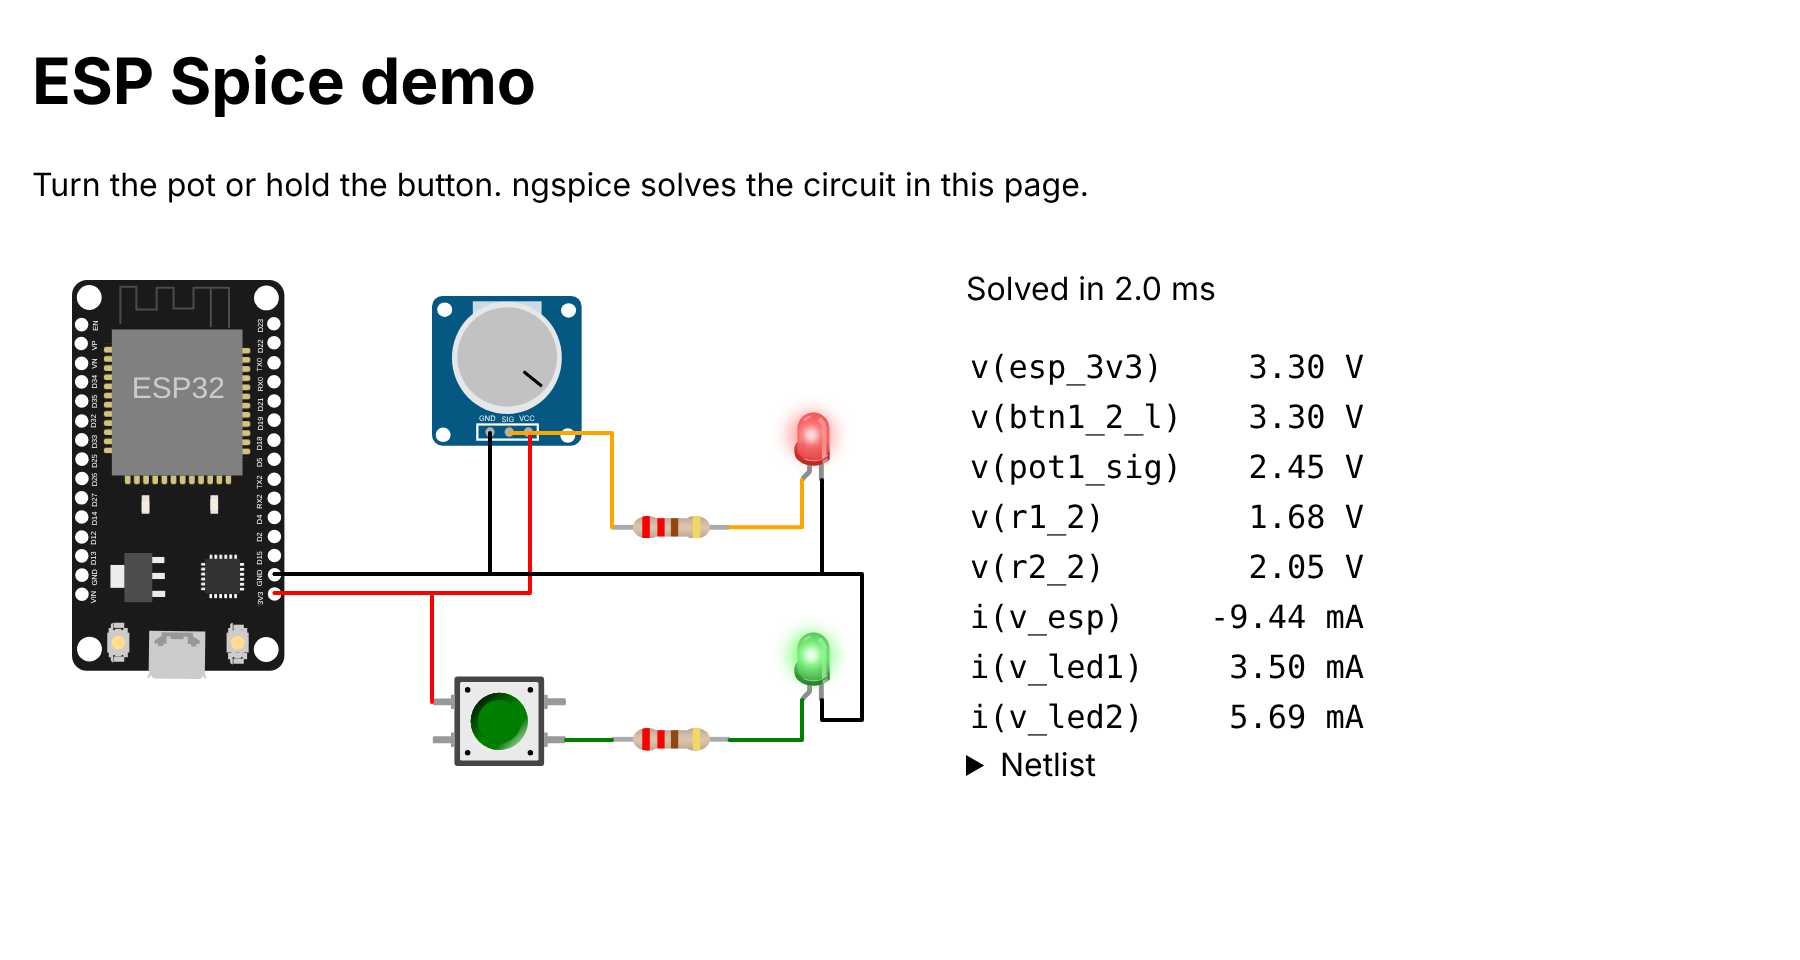
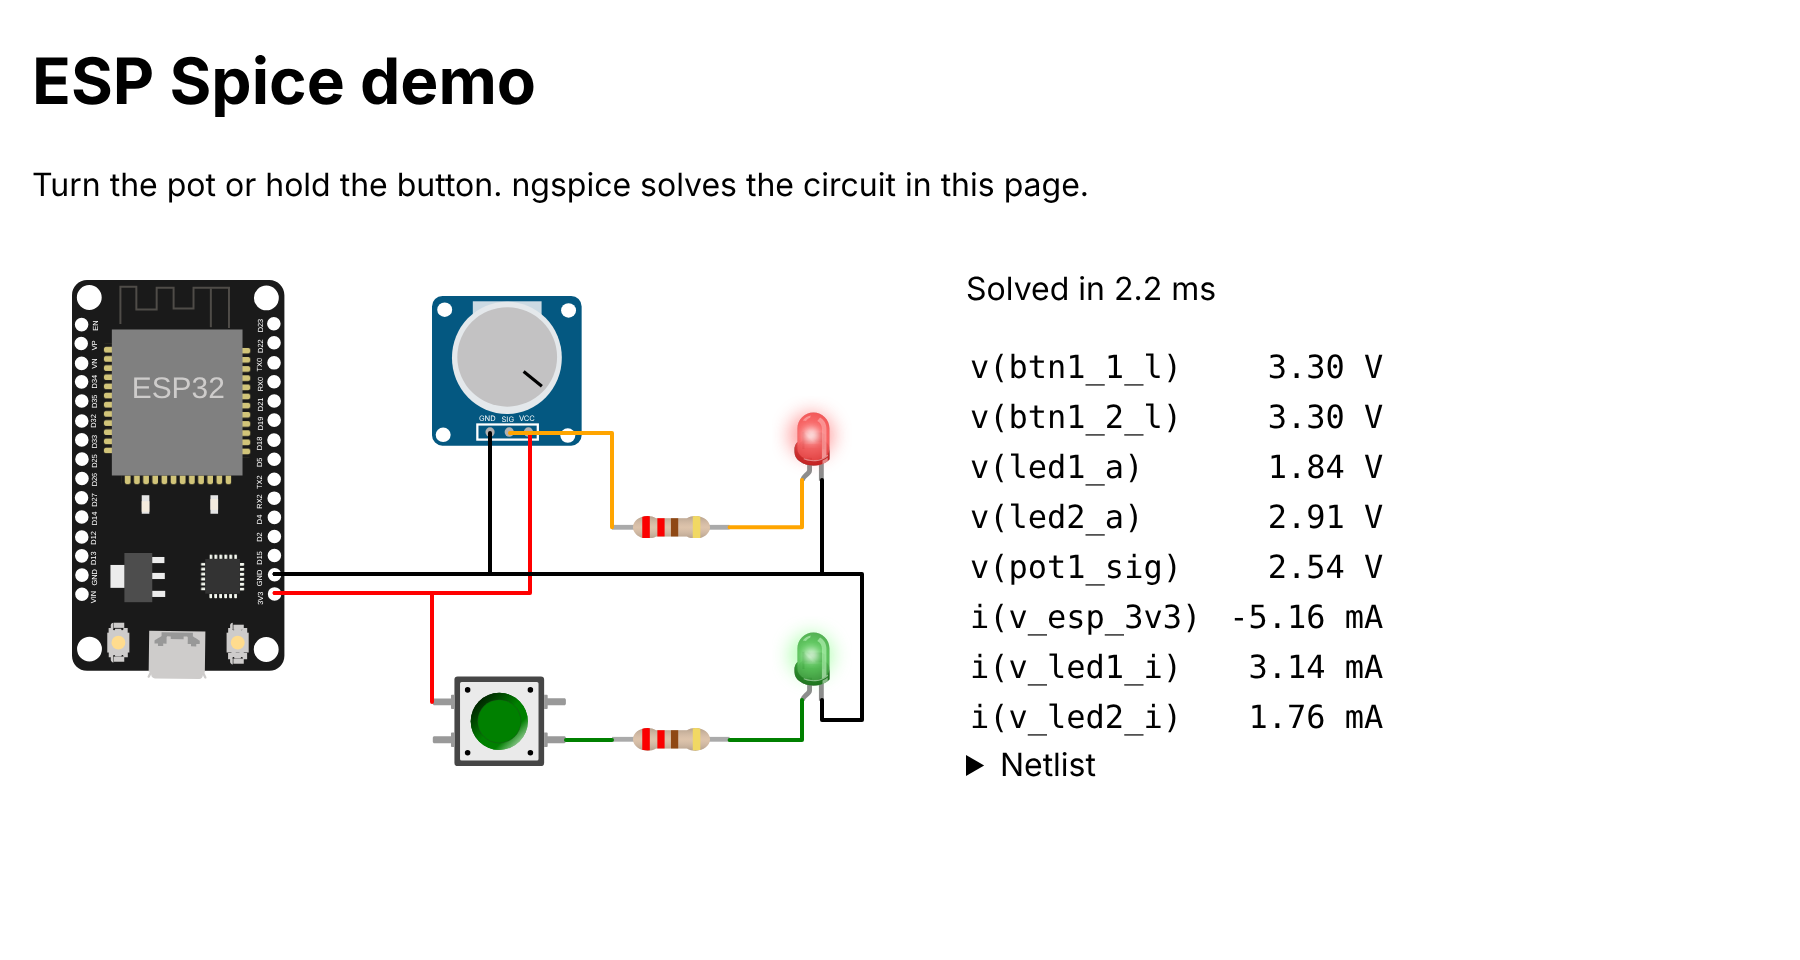
Use the shared netlist code in the web demo
Remove web/netlist.js. The page now makes the netlist with
circuit/netlist.js and sets the part props from its state().

Claude-Session: https://claude.ai/code/session_01Vyp3qCfvE3tLikKX5Badmj

diff --git a/web/demo.js b/web/demo.js
@@ -4,12 +4,9 @@
 
 import {Simulation} from 'eecircuit-engine';
 
+import {toNetlist} from '../circuit/netlist.js';
+import {PARTS} from '../circuit/parts.js';
 import {renderCircuit} from '../render/src/circuit.js';
-
-import {toNetlist} from './netlist.js';
-
-/** The LED current that shows as full brightness, in amperes. */
-const FULL_BRIGHTNESS_AMPS = 5e-3;
 
 const status = document.querySelector('#status');
 const readout = document.querySelector('#readout');
@@ -21,27 +18,21 @@ const diagram = await (await fetch('diagram.json')).json();
 const {elements: parts} =
     await renderCircuit(document.querySelector('#circuit'), diagram);
 
-const inputs = {};
+const controls = {};
 for (const [id, el] of parts) {
+  const set = (name, value) => {
+    controls[`${id}.${name}`] = value;
+    solve();
+  };
   switch (el.localName) {
     case 'wokwi-potentiometer':
       el.value = 512;
-      inputs[id] = el.value / el.max;
-      el.addEventListener('input', () => {
-        inputs[id] = el.value / el.max;
-        solve();
-      });
+      controls[`${id}.value`] = el.value;
+      el.addEventListener('input', () => set('value', el.value));
       break;
     case 'wokwi-pushbutton':
-      inputs[id] = false;
-      el.addEventListener('button-press', () => {
-        inputs[id] = true;
-        solve();
-      });
-      el.addEventListener('button-release', () => {
-        inputs[id] = false;
-        solve();
-      });
+      el.addEventListener('button-press', () => set('pressed', 1));
+      el.addEventListener('button-release', () => set('pressed', 0));
       break;
   }
 }
@@ -66,33 +57,35 @@ async function solve() {
   running = true;
   do {
     pending = false;
-    const netlist = toNetlist(diagram, inputs);
-    netlistView.textContent = netlist;
-    sim.setNetList(netlist);
+    const circuit = toNetlist(diagram, {analysis: '.op', controls});
+    netlistView.textContent = circuit.netlist;
+    sim.setNetList(circuit.netlist);
     const start = performance.now();
     const result = await sim.runSim();
     const ms = performance.now() - start;
-    show(result);
+    show(circuit, result);
     status.textContent = `Solved in ${ms.toFixed(1)} ms`;
   } while (pending);
   running = false;
 }
 
 /**
- * Updates the LEDs and the readout table from an .op result.
+ * Updates the parts and the readout table from an .op result.
  *
- * @param {!Object} result An eecircuit-engine result.
+ * @param {!Object} circuit The toNetlist() result.
+ * @param {!Object} result The eecircuit-engine result.
  */
-function show(result) {
+function show(circuit, result) {
   const values = new Map(result.data.map((d) => [d.name, d.values[0]]));
-  for (const [id, el] of parts) {
-    if (el.localName !== 'wokwi-led') continue;
-    const amps = values.get(`i(v_${id})`) ?? 0;
-    el.brightness = Math.min(1, Math.max(0, amps / FULL_BRIGHTNESS_AMPS));
-    el.value = el.brightness > 0.01;
+  const read = {
+    v: (node) => node === '0' ? 0 : values.get(`v(${node})`) ?? 0,
+    i: (source) => values.get(`i(${source})`) ?? 0,
+  };
+  for (const {id, type} of diagram.parts) {
+    if (PARTS[type]?.state) Object.assign(parts.get(id), circuit.state(id, read));
   }
-  // The `_k` nodes are the LED current probes from netlist.js. They are 0 V.
-  const shown = [...values].filter(([name]) => !name.endsWith('_k)'));
+  // Nodes with "__" are inside parts, so they do not help the reader.
+  const shown = [...values].filter(([name]) => !name.includes('__'));
   readout.replaceChildren(...shown.map(([name, value]) => {
     const row = document.createElement('tr');
     const unit = name.startsWith('i(') ? 'A' : 'V';

diff --git a/README.md b/README.md
@@ -24,9 +24,9 @@ If Node cannot find the library, set `NGSPICE_LIBRARY` to its path.
 ## Web demo
 
 `web/` is a static page that runs ngspice in the browser, through the
-[eecircuit-engine] WebAssembly build. It draws `web/diagram.json` with
-`render/` and [wokwi-elements]. Turn the pot or push the button, and the page solves the
-circuit again and sets the LED brightness from the current.
+[eecircuit-engine] WebAssembly build. It makes the netlist with `circuit/` and draws `web/diagram.json` with
+`render/` and [wokwi-elements]. Turn the pot or push the button, and the
+page solves the circuit again and sets the LED brightness from the current.
 
 ```sh
 python3 -m http.server 8790
